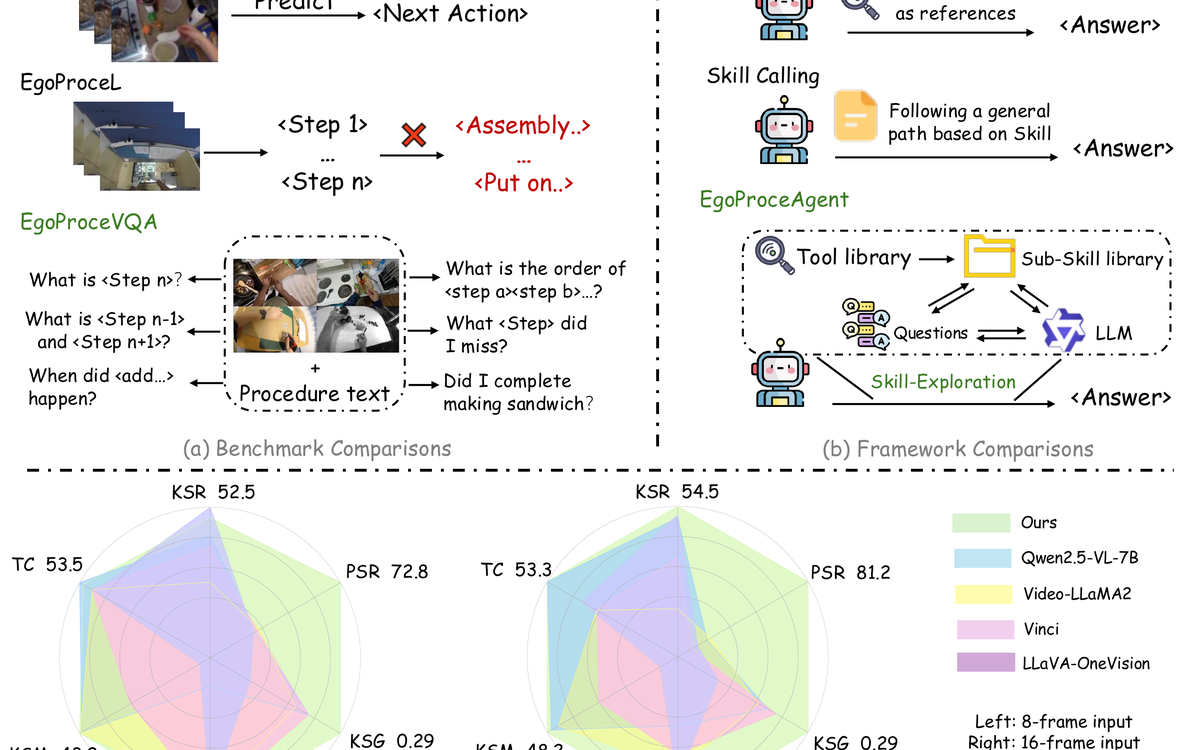
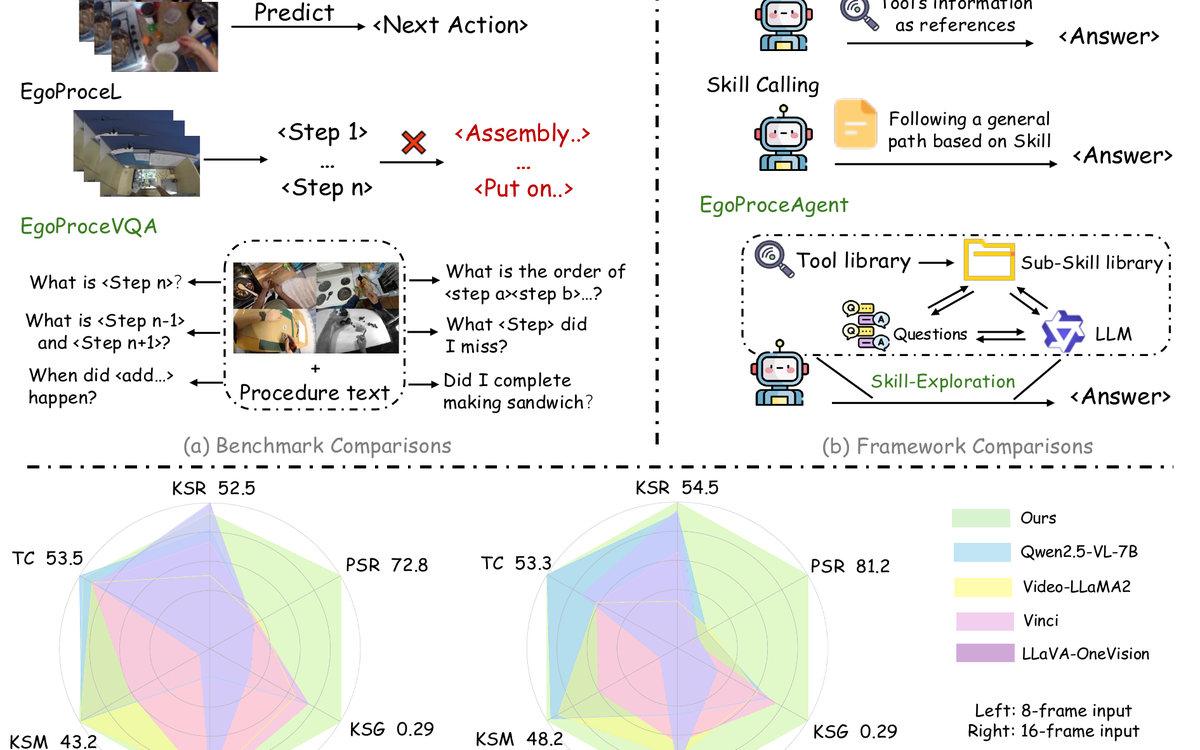
Crop new project images to card ratio 1.55:1, update meta titles

diff --git a/_pages/about.md b/_pages/about.md
@@ -17,7 +17,7 @@ Prior to joining PolyU, I worked as a Research Fellow in EEE at NTU until March 
 ## Recent Interactive and Physical AI Projects
 <section class="embodied-projects-showcase">
   <div class="embodied-project-card">
-    <a class="embodied-project-media embodied-project-media--contain" href="https://z1oong.github.io/EgoProceVQA/" target="_blank" rel="noopener noreferrer">
+    <a class="embodied-project-media" href="https://z1oong.github.io/EgoProceVQA/" target="_blank" rel="noopener noreferrer">
       <img src="{{ '/images/projects/embodied-ai/egoprocevqa.png' | relative_url }}" alt="EgoProceVQA project image" loading="lazy">
     </a>
     <div class="embodied-project-content">
@@ -28,7 +28,7 @@ Prior to joining PolyU, I worked as a Research Fellow in EEE at NTU until March 
   </div>
 
   <div class="embodied-project-card">
-    <a class="embodied-project-media embodied-project-media--contain" href="https://hvg3d.github.io/" target="_blank" rel="noopener noreferrer">
+    <a class="embodied-project-media" href="https://hvg3d.github.io/" target="_blank" rel="noopener noreferrer">
       <img src="{{ '/images/projects/embodied-ai/hvg3d.png' | relative_url }}" alt="HVG-3D project image" loading="lazy">
     </a>
     <div class="embodied-project-content">
@@ -39,7 +39,7 @@ Prior to joining PolyU, I worked as a Research Fellow in EEE at NTU until March 
   </div>
 
   <div class="embodied-project-card">
-    <a class="embodied-project-media embodied-project-media--contain" href="https://github.com/yuggiehk/EARL" target="_blank" rel="noopener noreferrer">
+    <a class="embodied-project-media" href="https://github.com/yuggiehk/EARL" target="_blank" rel="noopener noreferrer">
       <img src="{{ '/images/projects/embodied-ai/earl.png' | relative_url }}" alt="EARL project image" loading="lazy">
     </a>
     <div class="embodied-project-content">
